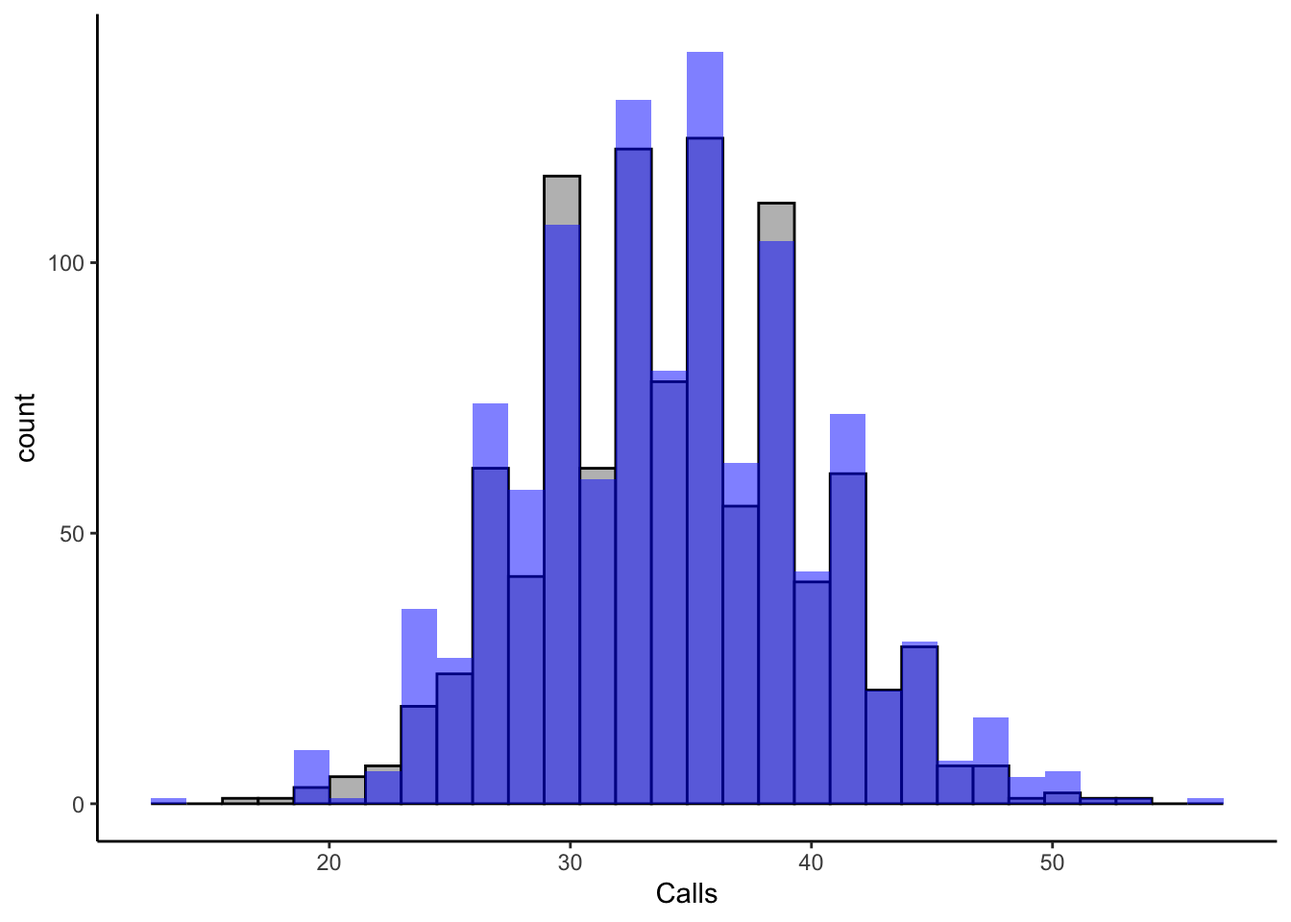
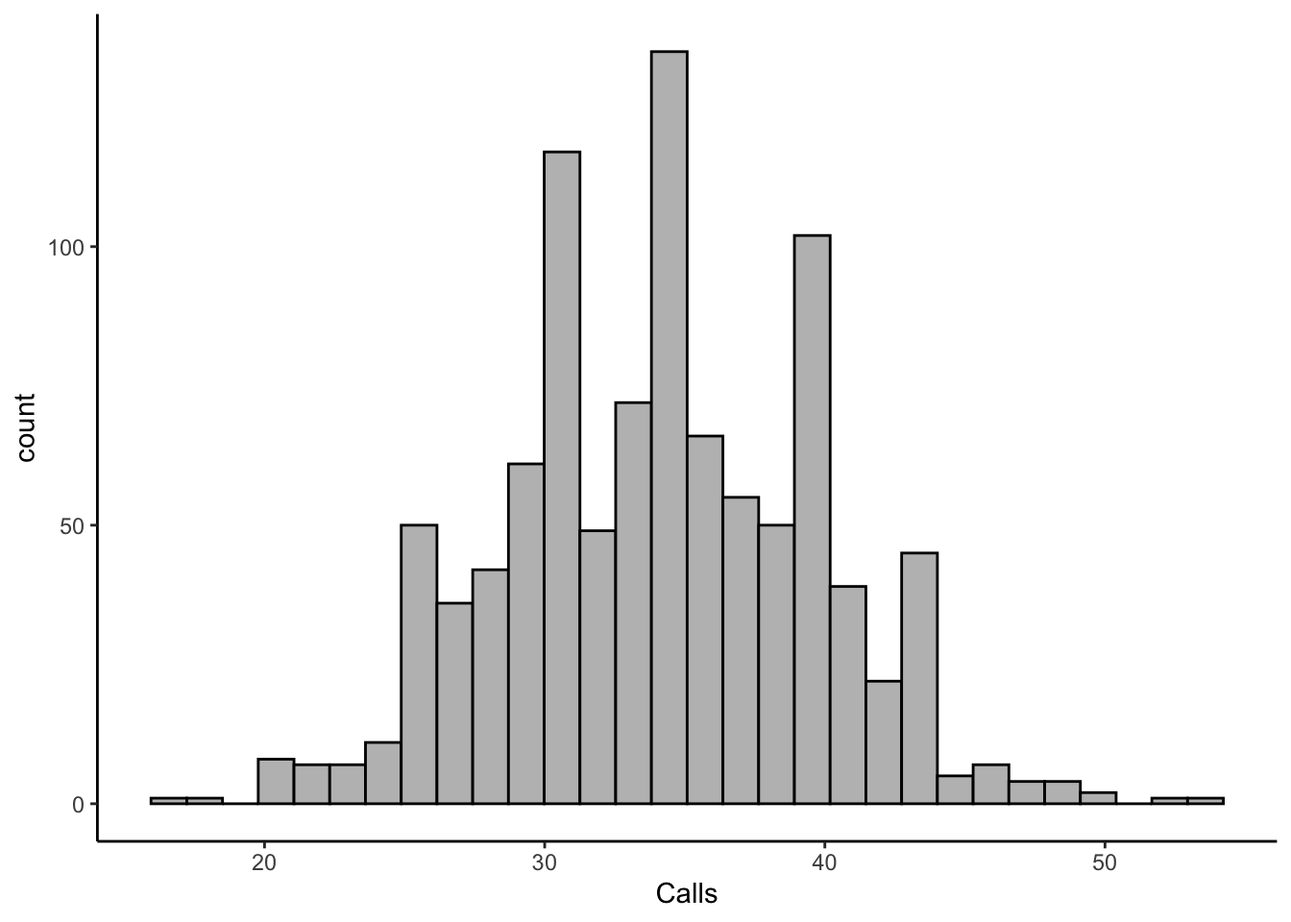
changes

diff --git a/docs/Tools.html b/docs/Tools.html
@@ -392,11 +392,11 @@ window.Quarto = {
 <span id="cb5-5"><a href="#cb5-5" aria-hidden="true" tabindex="-1"></a>           <span class="at">Demand=</span><span class="fu">rbinom</span>(<span class="dv">5</span>,<span class="dv">100</span>,<span class="fl">0.7</span>)))</span></code><button title="Copy to Clipboard" class="code-copy-button"><i class="bi"></i></button></pre></div>
 <div class="cell-output cell-output-stdout">
 <pre><code>              Books Price Demand
-1      Frankenstein  9.50     71
-2           Dracula  5.78     73
-3         Moby Dick  6.34     75
-4 War Of The Worlds  5.67     69
-5           Beowulf  2.45     73</code></pre>
+1      Frankenstein  9.50     73
+2           Dracula  5.78     67
+3         Moby Dick  6.34     69
+4 War Of The Worlds  5.67     70
+5           Beowulf  2.45     69</code></pre>
 </div>
 </div>
 <p>The demand for the book is generated using the <code>rbinom()</code> function. The first input of the <code>rbinom()</code> function specifies how many random numbers are needed (<span class="math inline">\(5\)</span>), the second one specifies the number of trials in the experiment (<span class="math inline">\(100\)</span>), and the last one specifies the probability of success (<span class="math inline">\(0.7\)</span>). The bookstore can now assess the Monster Series’s revenues with these demands.</p>
@@ -413,11 +413,11 @@ window.Quarto = {
 <span id="cb7-5"><a href="#cb7-5" aria-hidden="true" tabindex="-1"></a>  <span class="fu">print</span>(Revenue)</span>
 <span id="cb7-6"><a href="#cb7-6" aria-hidden="true" tabindex="-1"></a>}</span></code><button title="Copy to Clipboard" class="code-copy-button"><i class="bi"></i></button></pre></div>
 <div class="cell-output cell-output-stdout">
-<pre><code>[1] 674.5
-[1] 674.50 410.38
-[1] 674.50 410.38 462.82
-[1] 674.50 410.38 462.82 379.89
-[1] 674.50 410.38 462.82 379.89 164.15</code></pre>
+<pre><code>[1] 703
+[1] 703.0 375.7
+[1] 703.00 375.70 418.44
+[1] 703.00 375.70 418.44 340.20
+[1] 703.00 375.70 418.44 340.20 173.95</code></pre>
 </div>
 </div>
 <p>The code above starts by creating an empty vector to store the revenue generated by each book. A for loop is then used to simulate the revenue for each book. The process starts by taking the first price in the <em>MS$Price</em> vector and multiplying it with a single random number drawn from the binomial distribution with <span class="math inline">\(100\)</span> trials and probability <span class="math inline">\(0.7\)</span> (our simulated demand). Note how the code combines the <em>Revenue</em> vector with the revenue generated by the simulation in the code <code>c(Revenue, i*rbinom(1,100,0.7)</code>. This process is repeated for every number in the <em>MS$Price</em> vector, leading to a final vector with each book’s revenues.</p>
@@ -426,7 +426,7 @@ window.Quarto = {
 <div class="sourceCode cell-code" id="cb9"><pre class="sourceCode r code-with-copy"><code class="sourceCode r"><span id="cb9-1"><a href="#cb9-1" aria-hidden="true" tabindex="-1"></a>Revenue<span class="ot">&lt;-</span>MS<span class="sc">$</span>Demand<span class="sc">*</span>MS<span class="sc">$</span>Price</span>
 <span id="cb9-2"><a href="#cb9-2" aria-hidden="true" tabindex="-1"></a>Revenue</span></code><button title="Copy to Clipboard" class="code-copy-button"><i class="bi"></i></button></pre></div>
 <div class="cell-output cell-output-stdout">
-<pre><code>[1] 674.50 421.94 475.50 391.23 178.85</code></pre>
+<pre><code>[1] 693.50 387.26 437.46 396.90 169.05</code></pre>
 </div>
 </div>
 </section>
@@ -447,7 +447,7 @@ window.Quarto = {
 <span id="cb11-10"><a href="#cb11-10" aria-hidden="true" tabindex="-1"></a></span>
 <span id="cb11-11"><a href="#cb11-11" aria-hidden="true" tabindex="-1"></a><span class="fu">print</span>(demand)</span></code><button title="Copy to Clipboard" class="code-copy-button"><i class="bi"></i></button></pre></div>
 <div class="cell-output cell-output-stdout">
-<pre><code>[1] 91 91 66 73 68</code></pre>
+<pre><code>[1] 91 87 73 60 72</code></pre>
 </div>
 </div>
 <p>In the code above, the inner conditional checks whether the titles are either Frankenstein or Dracula. If so, the random binomial number is drawn with the probability <span class="math inline">\(0.9\)</span>. If not, it is drawn with probability <span class="math inline">\(0.7\)</span>. The for loop, goes through all the books in the series and adds a simulated demand. Below is our data frame with the new simulated values.</p>
@@ -460,10 +460,10 @@ window.Quarto = {
 <div class="cell-output cell-output-stdout">
 <pre><code>              Books Price Demand
 1      Frankenstein  9.50     91
-2           Dracula  5.78     91
-3         Moby Dick  6.34     66
-4 War Of The Worlds  5.67     73
-5           Beowulf  2.45     68</code></pre>
+2           Dracula  5.78     87
+3         Moby Dick  6.34     73
+4 War Of The Worlds  5.67     60
+5           Beowulf  2.45     72</code></pre>
 </div>
 </div>
 <p>We can simplify this calculation by using a function to modify the vector of books (i.e.&nbsp;vectorization). In particular, the <code>ifelse()</code> function allows us to take the <em>Books</em> variable and transform it to a vector of demands. The first argument of the <code>ifelse()</code> function is the logical condition (i.e.&nbsp;Books==“Frankenstein”| Books==“Dracula”), the second argument is the action to be taken when the condition holds true (i.e.&nbsp;<code>rbinom(length(MS$Books),100,0.9)</code>) and the last argument is the action to be taken when the condition does not hold (i.e.&nbsp;<code>rbinom(length(MS$Books),100,0.7)</code>). Below is simpler code to generate the demand of books:</p>
@@ -473,7 +473,7 @@ window.Quarto = {
 <span id="cb15-3"><a href="#cb15-3" aria-hidden="true" tabindex="-1"></a>               <span class="fu">rbinom</span>(<span class="fu">length</span>(MS<span class="sc">$</span>Books),<span class="dv">100</span>,<span class="fl">0.7</span>))</span>
 <span id="cb15-4"><a href="#cb15-4" aria-hidden="true" tabindex="-1"></a>demand</span></code><button title="Copy to Clipboard" class="code-copy-button"><i class="bi"></i></button></pre></div>
 <div class="cell-output cell-output-stdout">
-<pre><code>[1] 93 94 62 69 70</code></pre>
+<pre><code>[1] 94 88 80 67 71</code></pre>
 </div>
 </div>
 </section>
@@ -734,18 +734,47 @@ Suggested Answer
 </div>
 </details>
 <ol start="3" type="1">
+<li>The Bellagio Casino in Las Vegas wants you to create a simulation of their roullete wheel, where players bet on whether the outcome will be red or black. In a standard roulette wheel, there are 18 red slots, 18 black slots, and 2 green slots (0 and 00) out of a total of 38 slots. Your task is to simulate a player betting on red for 100 spins of the roulette wheel by using a for loop and a conditional statement. If the ball lands on a red slot, the player wins and earns 1 dollar. If the ball lands on a black or green slot, the player loses 1 dollar. What is the player’s total winnings or losses after 100 spins? How does the “house edge” (the presence of the green slots) affect the player’s outcome over many spins?</li>
+</ol>
+<details>
+<summary>
+Suggested Answer
+</summary>
+<div class="cell">
+<div class="sourceCode cell-code" id="cb29"><pre class="sourceCode r code-with-copy"><code class="sourceCode r"><span id="cb29-1"><a href="#cb29-1" aria-hidden="true" tabindex="-1"></a><span class="co"># Set up the roulette wheel</span></span>
+<span id="cb29-2"><a href="#cb29-2" aria-hidden="true" tabindex="-1"></a>wheel <span class="ot">&lt;-</span> <span class="fu">c</span>(<span class="fu">rep</span>(<span class="st">"red"</span>, <span class="dv">18</span>), <span class="fu">rep</span>(<span class="st">"black"</span>, <span class="dv">18</span>), <span class="fu">rep</span>(<span class="st">"green"</span>, <span class="dv">2</span>))</span>
+<span id="cb29-3"><a href="#cb29-3" aria-hidden="true" tabindex="-1"></a></span>
+<span id="cb29-4"><a href="#cb29-4" aria-hidden="true" tabindex="-1"></a><span class="co"># Initialize the player's total winnings</span></span>
+<span id="cb29-5"><a href="#cb29-5" aria-hidden="true" tabindex="-1"></a>total_winnings <span class="ot">&lt;-</span> <span class="dv">0</span></span>
+<span id="cb29-6"><a href="#cb29-6" aria-hidden="true" tabindex="-1"></a></span>
+<span id="cb29-7"><a href="#cb29-7" aria-hidden="true" tabindex="-1"></a><span class="co"># Simulate the bets using the sample function</span></span>
+<span id="cb29-8"><a href="#cb29-8" aria-hidden="true" tabindex="-1"></a><span class="cf">for</span> (i <span class="cf">in</span> <span class="dv">1</span><span class="sc">:</span><span class="dv">100</span>) {</span>
+<span id="cb29-9"><a href="#cb29-9" aria-hidden="true" tabindex="-1"></a>  <span class="co"># Spin the roulette wheel</span></span>
+<span id="cb29-10"><a href="#cb29-10" aria-hidden="true" tabindex="-1"></a>  spin_result <span class="ot">&lt;-</span> <span class="fu">sample</span>(wheel, <span class="dv">1</span>)</span>
+<span id="cb29-11"><a href="#cb29-11" aria-hidden="true" tabindex="-1"></a>  </span>
+<span id="cb29-12"><a href="#cb29-12" aria-hidden="true" tabindex="-1"></a>  <span class="co"># Use Conditional to determine if the player wins or loses</span></span>
+<span id="cb29-13"><a href="#cb29-13" aria-hidden="true" tabindex="-1"></a>  <span class="cf">if</span> (spin_result <span class="sc">==</span> <span class="st">"red"</span>) {</span>
+<span id="cb29-14"><a href="#cb29-14" aria-hidden="true" tabindex="-1"></a>    total_winnings <span class="ot">&lt;-</span> total_winnings <span class="sc">+</span> <span class="dv">1</span>  <span class="co"># Player wins $1</span></span>
+<span id="cb29-15"><a href="#cb29-15" aria-hidden="true" tabindex="-1"></a>  } <span class="cf">else</span> {</span>
+<span id="cb29-16"><a href="#cb29-16" aria-hidden="true" tabindex="-1"></a>    total_winnings <span class="ot">&lt;-</span> total_winnings <span class="sc">-</span> <span class="dv">1</span>  <span class="co"># Player loses $1</span></span>
+<span id="cb29-17"><a href="#cb29-17" aria-hidden="true" tabindex="-1"></a>  }</span>
+<span id="cb29-18"><a href="#cb29-18" aria-hidden="true" tabindex="-1"></a>}</span></code><button title="Copy to Clipboard" class="code-copy-button"><i class="bi"></i></button></pre></div>
+</div>
+<p>For this simulation, the player wins a total of 20 dollars. The “house edge” biases the odds in favor of the casino.</p>
+</details>
+<ol start="4" type="1">
 <li>Franklin and Templeton wants you to generate 4 simulated returns for the SPY (an ETF that tracks the S&amp;P 500). They provide you with the data and histogram shown below. What distribution would you use to simulate the data? What parameters would you use?</li>
 </ol>
 <div class="cell">
-<div class="sourceCode cell-code" id="cb29"><pre class="sourceCode r code-with-copy"><code class="sourceCode r"><span id="cb29-1"><a href="#cb29-1" aria-hidden="true" tabindex="-1"></a><span class="fu">library</span>(tidyverse)</span>
-<span id="cb29-2"><a href="#cb29-2" aria-hidden="true" tabindex="-1"></a>data<span class="ot">&lt;-</span><span class="fu">read_csv</span>(<span class="st">"https://jagelves.github.io/Data/returns.csv"</span>)</span>
-<span id="cb29-3"><a href="#cb29-3" aria-hidden="true" tabindex="-1"></a>data <span class="sc">%&gt;%</span> <span class="fu">filter</span>(Stock<span class="sc">==</span><span class="st">"SPY"</span>) <span class="sc">%&gt;%</span> <span class="fu">ggplot</span>() <span class="sc">+</span></span>
-<span id="cb29-4"><a href="#cb29-4" aria-hidden="true" tabindex="-1"></a>  <span class="fu">geom_histogram</span>(<span class="fu">aes</span>(<span class="at">x=</span>Return), <span class="at">bg=</span><span class="st">"grey"</span>,<span class="at">col=</span><span class="st">"black"</span>) <span class="sc">+</span></span>
-<span id="cb29-5"><a href="#cb29-5" aria-hidden="true" tabindex="-1"></a>  <span class="fu">theme_classic</span>()</span></code><button title="Copy to Clipboard" class="code-copy-button"><i class="bi"></i></button></pre></div>
+<div class="sourceCode cell-code" id="cb30"><pre class="sourceCode r code-with-copy"><code class="sourceCode r"><span id="cb30-1"><a href="#cb30-1" aria-hidden="true" tabindex="-1"></a><span class="fu">library</span>(tidyverse)</span>
+<span id="cb30-2"><a href="#cb30-2" aria-hidden="true" tabindex="-1"></a>data<span class="ot">&lt;-</span><span class="fu">read_csv</span>(<span class="st">"https://jagelves.github.io/Data/returns.csv"</span>)</span>
+<span id="cb30-3"><a href="#cb30-3" aria-hidden="true" tabindex="-1"></a>data <span class="sc">%&gt;%</span> <span class="fu">filter</span>(Stock<span class="sc">==</span><span class="st">"SPY"</span>) <span class="sc">%&gt;%</span> <span class="fu">ggplot</span>() <span class="sc">+</span></span>
+<span id="cb30-4"><a href="#cb30-4" aria-hidden="true" tabindex="-1"></a>  <span class="fu">geom_histogram</span>(<span class="fu">aes</span>(<span class="at">x=</span>Return), <span class="at">bg=</span><span class="st">"grey"</span>,<span class="at">col=</span><span class="st">"black"</span>) <span class="sc">+</span></span>
+<span id="cb30-5"><a href="#cb30-5" aria-hidden="true" tabindex="-1"></a>  <span class="fu">theme_classic</span>()</span></code><button title="Copy to Clipboard" class="code-copy-button"><i class="bi"></i></button></pre></div>
 <div class="cell-output-display">
 <div>
 <figure class="figure">
-<p><img src="Tools_files/figure-html/unnamed-chunk-17-1.png" class="img-fluid figure-img" width="672"></p>
+<p><img src="Tools_files/figure-html/unnamed-chunk-18-1.png" class="img-fluid figure-img" width="672"></p>
 </figure>
 </div>
 </div>
@@ -756,25 +785,25 @@ Suggested Answer
 </summary>
 <p>The distribution of returns looks normal. We can use the mean and the standard deviation of the sample provided as inputs in the <code>rnorm()</code> function.</p>
 <div class="cell">
-<div class="sourceCode cell-code" id="cb30"><pre class="sourceCode r code-with-copy"><code class="sourceCode r"><span id="cb30-1"><a href="#cb30-1" aria-hidden="true" tabindex="-1"></a>data <span class="sc">%&gt;%</span> <span class="fu">filter</span>(Stock<span class="sc">==</span><span class="st">"SPY"</span>) <span class="sc">%&gt;%</span> <span class="fu">ggplot</span>() <span class="sc">+</span></span>
-<span id="cb30-2"><a href="#cb30-2" aria-hidden="true" tabindex="-1"></a>  <span class="fu">geom_histogram</span>(<span class="fu">aes</span>(<span class="at">x=</span>Return), <span class="at">bg=</span><span class="st">"grey"</span>,<span class="at">col=</span><span class="st">"black"</span>) <span class="sc">+</span></span>
-<span id="cb30-3"><a href="#cb30-3" aria-hidden="true" tabindex="-1"></a>  <span class="fu">geom_histogram</span>(<span class="fu">aes</span>(<span class="at">x=</span><span class="fu">rnorm</span>(<span class="fu">length</span>(Return),<span class="fu">mean</span>(Return),</span>
-<span id="cb30-4"><a href="#cb30-4" aria-hidden="true" tabindex="-1"></a>                             <span class="fu">sd</span>(Return))), <span class="at">bg=</span><span class="st">"blue"</span>,</span>
-<span id="cb30-5"><a href="#cb30-5" aria-hidden="true" tabindex="-1"></a>                 <span class="at">alpha=</span><span class="fl">0.5</span>) <span class="sc">+</span></span>
-<span id="cb30-6"><a href="#cb30-6" aria-hidden="true" tabindex="-1"></a>  <span class="fu">theme_classic</span>()</span></code><button title="Copy to Clipboard" class="code-copy-button"><i class="bi"></i></button></pre></div>
+<div class="sourceCode cell-code" id="cb31"><pre class="sourceCode r code-with-copy"><code class="sourceCode r"><span id="cb31-1"><a href="#cb31-1" aria-hidden="true" tabindex="-1"></a>data <span class="sc">%&gt;%</span> <span class="fu">filter</span>(Stock<span class="sc">==</span><span class="st">"SPY"</span>) <span class="sc">%&gt;%</span> <span class="fu">ggplot</span>() <span class="sc">+</span></span>
+<span id="cb31-2"><a href="#cb31-2" aria-hidden="true" tabindex="-1"></a>  <span class="fu">geom_histogram</span>(<span class="fu">aes</span>(<span class="at">x=</span>Return), <span class="at">bg=</span><span class="st">"grey"</span>,<span class="at">col=</span><span class="st">"black"</span>) <span class="sc">+</span></span>
+<span id="cb31-3"><a href="#cb31-3" aria-hidden="true" tabindex="-1"></a>  <span class="fu">geom_histogram</span>(<span class="fu">aes</span>(<span class="at">x=</span><span class="fu">rnorm</span>(<span class="fu">length</span>(Return),<span class="fu">mean</span>(Return),</span>
+<span id="cb31-4"><a href="#cb31-4" aria-hidden="true" tabindex="-1"></a>                             <span class="fu">sd</span>(Return))), <span class="at">bg=</span><span class="st">"blue"</span>,</span>
+<span id="cb31-5"><a href="#cb31-5" aria-hidden="true" tabindex="-1"></a>                 <span class="at">alpha=</span><span class="fl">0.5</span>) <span class="sc">+</span></span>
+<span id="cb31-6"><a href="#cb31-6" aria-hidden="true" tabindex="-1"></a>  <span class="fu">theme_classic</span>()</span></code><button title="Copy to Clipboard" class="code-copy-button"><i class="bi"></i></button></pre></div>
 <div class="cell-output-display">
 <div>
 <figure class="figure">
-<p><img src="Tools_files/figure-html/unnamed-chunk-18-1.png" class="img-fluid figure-img" width="672"></p>
+<p><img src="Tools_files/figure-html/unnamed-chunk-19-1.png" class="img-fluid figure-img" width="672"></p>
 </figure>
 </div>
 </div>
 </div>
 <p>As you can see the simulated demand follows the pattern of the sample returns (i.e.&nbsp;the normal distribution). To retrieve the mean and standard deviation of each investmenr we can use the code below:</p>
 <div class="cell">
-<div class="sourceCode cell-code" id="cb31"><pre class="sourceCode r code-with-copy"><code class="sourceCode r"><span id="cb31-1"><a href="#cb31-1" aria-hidden="true" tabindex="-1"></a>data <span class="sc">%&gt;%</span> <span class="fu">group_by</span>(Stock) <span class="sc">%&gt;%</span> </span>
-<span id="cb31-2"><a href="#cb31-2" aria-hidden="true" tabindex="-1"></a>  <span class="fu">summarise</span>(<span class="at">Average=</span><span class="fu">mean</span>(Return),</span>
-<span id="cb31-3"><a href="#cb31-3" aria-hidden="true" tabindex="-1"></a>            <span class="at">SD=</span><span class="fu">sd</span>(Return))</span></code><button title="Copy to Clipboard" class="code-copy-button"><i class="bi"></i></button></pre></div>
+<div class="sourceCode cell-code" id="cb32"><pre class="sourceCode r code-with-copy"><code class="sourceCode r"><span id="cb32-1"><a href="#cb32-1" aria-hidden="true" tabindex="-1"></a>data <span class="sc">%&gt;%</span> <span class="fu">group_by</span>(Stock) <span class="sc">%&gt;%</span> </span>
+<span id="cb32-2"><a href="#cb32-2" aria-hidden="true" tabindex="-1"></a>  <span class="fu">summarise</span>(<span class="at">Average=</span><span class="fu">mean</span>(Return),</span>
+<span id="cb32-3"><a href="#cb32-3" aria-hidden="true" tabindex="-1"></a>            <span class="at">SD=</span><span class="fu">sd</span>(Return))</span></code><button title="Copy to Clipboard" class="code-copy-button"><i class="bi"></i></button></pre></div>
 <div class="cell-output cell-output-stdout">
 <pre><code># A tibble: 3 × 3
   Stock  Average     SD
@@ -786,25 +815,25 @@ Suggested Answer
 </div>
 <p>Lastly, we can now use the mean and the standard deviation of SPY to simulate four returns:</p>
 <div class="cell">
-<div class="sourceCode cell-code" id="cb33"><pre class="sourceCode r code-with-copy"><code class="sourceCode r"><span id="cb33-1"><a href="#cb33-1" aria-hidden="true" tabindex="-1"></a><span class="fu">rnorm</span>(<span class="dv">4</span>,<span class="fl">0.00173</span>,<span class="fl">0.025667</span>)</span></code><button title="Copy to Clipboard" class="code-copy-button"><i class="bi"></i></button></pre></div>
+<div class="sourceCode cell-code" id="cb34"><pre class="sourceCode r code-with-copy"><code class="sourceCode r"><span id="cb34-1"><a href="#cb34-1" aria-hidden="true" tabindex="-1"></a><span class="fu">rnorm</span>(<span class="dv">4</span>,<span class="fl">0.00173</span>,<span class="fl">0.025667</span>)</span></code><button title="Copy to Clipboard" class="code-copy-button"><i class="bi"></i></button></pre></div>
 <div class="cell-output cell-output-stdout">
-<pre><code>[1] -0.02848201 -0.01362113  0.02413823 -0.01611987</code></pre>
+<pre><code>[1] -0.025489054 -0.027784645  0.005303784  0.019582191</code></pre>
 </div>
 </div>
 </details>
-<ol start="4" type="1">
+<ol start="5" type="1">
 <li>XYZ Call Center, a popular customer service provider, wants you to simulate the daily number of calls their agents receive. The company has provided you with each employees call volume for a day and the histogram for the data. Analyze the data to determine the appropriate distribution that can be used to model the number of daily calls. You can determine the parameters for the distribution based on the historical data. Generate four simulated values representing the possible daily call volumes using the chosen distribution and parameters. What distribution would you use to simulate the daily call volumes for XYZ Call Center? What are the parameters of the chosen distribution? What are the four simulated daily call volumes?</li>
 </ol>
 <div class="cell">
-<div class="sourceCode cell-code" id="cb35"><pre class="sourceCode r code-with-copy"><code class="sourceCode r"><span id="cb35-1"><a href="#cb35-1" aria-hidden="true" tabindex="-1"></a><span class="fu">library</span>(tidyverse)</span>
-<span id="cb35-2"><a href="#cb35-2" aria-hidden="true" tabindex="-1"></a>data<span class="ot">&lt;-</span><span class="fu">read_csv</span>(<span class="st">"https://jagelves.github.io/Data/CallCenter.csv"</span>)</span>
-<span id="cb35-3"><a href="#cb35-3" aria-hidden="true" tabindex="-1"></a>data <span class="sc">%&gt;%</span> <span class="fu">ggplot</span>() <span class="sc">+</span></span>
-<span id="cb35-4"><a href="#cb35-4" aria-hidden="true" tabindex="-1"></a>  <span class="fu">geom_histogram</span>(<span class="fu">aes</span>(<span class="at">x=</span>Calls), <span class="at">bg=</span><span class="st">"grey"</span>,<span class="at">col=</span><span class="st">"black"</span>) <span class="sc">+</span></span>
-<span id="cb35-5"><a href="#cb35-5" aria-hidden="true" tabindex="-1"></a>  <span class="fu">theme_classic</span>()</span></code><button title="Copy to Clipboard" class="code-copy-button"><i class="bi"></i></button></pre></div>
+<div class="sourceCode cell-code" id="cb36"><pre class="sourceCode r code-with-copy"><code class="sourceCode r"><span id="cb36-1"><a href="#cb36-1" aria-hidden="true" tabindex="-1"></a><span class="fu">library</span>(tidyverse)</span>
+<span id="cb36-2"><a href="#cb36-2" aria-hidden="true" tabindex="-1"></a>data<span class="ot">&lt;-</span><span class="fu">read_csv</span>(<span class="st">"https://jagelves.github.io/Data/CallCenter.csv"</span>)</span>
+<span id="cb36-3"><a href="#cb36-3" aria-hidden="true" tabindex="-1"></a>data <span class="sc">%&gt;%</span> <span class="fu">ggplot</span>() <span class="sc">+</span></span>
+<span id="cb36-4"><a href="#cb36-4" aria-hidden="true" tabindex="-1"></a>  <span class="fu">geom_histogram</span>(<span class="fu">aes</span>(<span class="at">x=</span>Calls), <span class="at">bg=</span><span class="st">"grey"</span>,<span class="at">col=</span><span class="st">"black"</span>) <span class="sc">+</span></span>
+<span id="cb36-5"><a href="#cb36-5" aria-hidden="true" tabindex="-1"></a>  <span class="fu">theme_classic</span>()</span></code><button title="Copy to Clipboard" class="code-copy-button"><i class="bi"></i></button></pre></div>
 <div class="cell-output-display">
 <div>
 <figure class="figure">
-<p><img src="Tools_files/figure-html/unnamed-chunk-21-1.png" class="img-fluid figure-img" width="672"></p>
+<p><img src="Tools_files/figure-html/unnamed-chunk-22-1.png" class="img-fluid figure-img" width="672"></p>
 </figure>
 </div>
 </div>
@@ -815,25 +844,25 @@ Suggested Answer
 </summary>
 <p>Given the context of the problem and data, we can think about using the Poisson distribution. The data shows us number of calls per day for each employee (i.e.&nbsp;number of successes in a given time interval). The mean number of call is 34.079 per day. We can use this parameter to generate simulated data as shown below.</p>
 <div class="cell">
-<div class="sourceCode cell-code" id="cb36"><pre class="sourceCode r code-with-copy"><code class="sourceCode r"><span id="cb36-1"><a href="#cb36-1" aria-hidden="true" tabindex="-1"></a>data <span class="sc">%&gt;%</span> <span class="fu">ggplot</span>() <span class="sc">+</span></span>
-<span id="cb36-2"><a href="#cb36-2" aria-hidden="true" tabindex="-1"></a>  <span class="fu">geom_histogram</span>(<span class="fu">aes</span>(<span class="at">x=</span>Calls), <span class="at">bg=</span><span class="st">"grey"</span>,<span class="at">col=</span><span class="st">"black"</span>) <span class="sc">+</span></span>
-<span id="cb36-3"><a href="#cb36-3" aria-hidden="true" tabindex="-1"></a>  <span class="fu">geom_histogram</span>(<span class="fu">aes</span>(<span class="at">x=</span><span class="fu">rpois</span>(<span class="fu">length</span>(Calls),<span class="fu">mean</span>(Calls,<span class="at">na.rm=</span><span class="cn">TRUE</span>))),</span>
-<span id="cb36-4"><a href="#cb36-4" aria-hidden="true" tabindex="-1"></a>                 <span class="at">bg=</span><span class="st">"blue"</span>,</span>
-<span id="cb36-5"><a href="#cb36-5" aria-hidden="true" tabindex="-1"></a>                 <span class="at">alpha=</span><span class="fl">0.5</span>) <span class="sc">+</span></span>
-<span id="cb36-6"><a href="#cb36-6" aria-hidden="true" tabindex="-1"></a>  <span class="fu">theme_classic</span>()</span></code><button title="Copy to Clipboard" class="code-copy-button"><i class="bi"></i></button></pre></div>
+<div class="sourceCode cell-code" id="cb37"><pre class="sourceCode r code-with-copy"><code class="sourceCode r"><span id="cb37-1"><a href="#cb37-1" aria-hidden="true" tabindex="-1"></a>data <span class="sc">%&gt;%</span> <span class="fu">ggplot</span>() <span class="sc">+</span></span>
+<span id="cb37-2"><a href="#cb37-2" aria-hidden="true" tabindex="-1"></a>  <span class="fu">geom_histogram</span>(<span class="fu">aes</span>(<span class="at">x=</span>Calls), <span class="at">bg=</span><span class="st">"grey"</span>,<span class="at">col=</span><span class="st">"black"</span>) <span class="sc">+</span></span>
+<span id="cb37-3"><a href="#cb37-3" aria-hidden="true" tabindex="-1"></a>  <span class="fu">geom_histogram</span>(<span class="fu">aes</span>(<span class="at">x=</span><span class="fu">rpois</span>(<span class="fu">length</span>(Calls),<span class="fu">mean</span>(Calls,<span class="at">na.rm=</span><span class="cn">TRUE</span>))),</span>
+<span id="cb37-4"><a href="#cb37-4" aria-hidden="true" tabindex="-1"></a>                 <span class="at">bg=</span><span class="st">"blue"</span>,</span>
+<span id="cb37-5"><a href="#cb37-5" aria-hidden="true" tabindex="-1"></a>                 <span class="at">alpha=</span><span class="fl">0.5</span>) <span class="sc">+</span></span>
+<span id="cb37-6"><a href="#cb37-6" aria-hidden="true" tabindex="-1"></a>  <span class="fu">theme_classic</span>()</span></code><button title="Copy to Clipboard" class="code-copy-button"><i class="bi"></i></button></pre></div>
 <div class="cell-output-display">
 <div>
 <figure class="figure">
-<p><img src="Tools_files/figure-html/unnamed-chunk-22-1.png" class="img-fluid figure-img" width="672"></p>
+<p><img src="Tools_files/figure-html/unnamed-chunk-23-1.png" class="img-fluid figure-img" width="672"></p>
 </figure>
 </div>
 </div>
 </div>
 <p>The simulated data seems to resemble the call center data. Now we can generate four simulated number of calls in a day by using the <code>rpois()</code> function and the estimated mean number of calls in a day.</p>
 <div class="cell">
-<div class="sourceCode cell-code" id="cb37"><pre class="sourceCode r code-with-copy"><code class="sourceCode r"><span id="cb37-1"><a href="#cb37-1" aria-hidden="true" tabindex="-1"></a><span class="fu">rpois</span>(<span class="dv">4</span>,<span class="fu">mean</span>(data<span class="sc">$</span>Calls,<span class="at">na.rm=</span><span class="cn">TRUE</span>))</span></code><button title="Copy to Clipboard" class="code-copy-button"><i class="bi"></i></button></pre></div>
+<div class="sourceCode cell-code" id="cb38"><pre class="sourceCode r code-with-copy"><code class="sourceCode r"><span id="cb38-1"><a href="#cb38-1" aria-hidden="true" tabindex="-1"></a><span class="fu">rpois</span>(<span class="dv">4</span>,<span class="fu">mean</span>(data<span class="sc">$</span>Calls,<span class="at">na.rm=</span><span class="cn">TRUE</span>))</span></code><button title="Copy to Clipboard" class="code-copy-button"><i class="bi"></i></button></pre></div>
 <div class="cell-output cell-output-stdout">
-<pre><code>[1] 31 37 33 39</code></pre>
+<pre><code>[1] 24 44 33 24</code></pre>
 </div>
 </div>
 </details>
